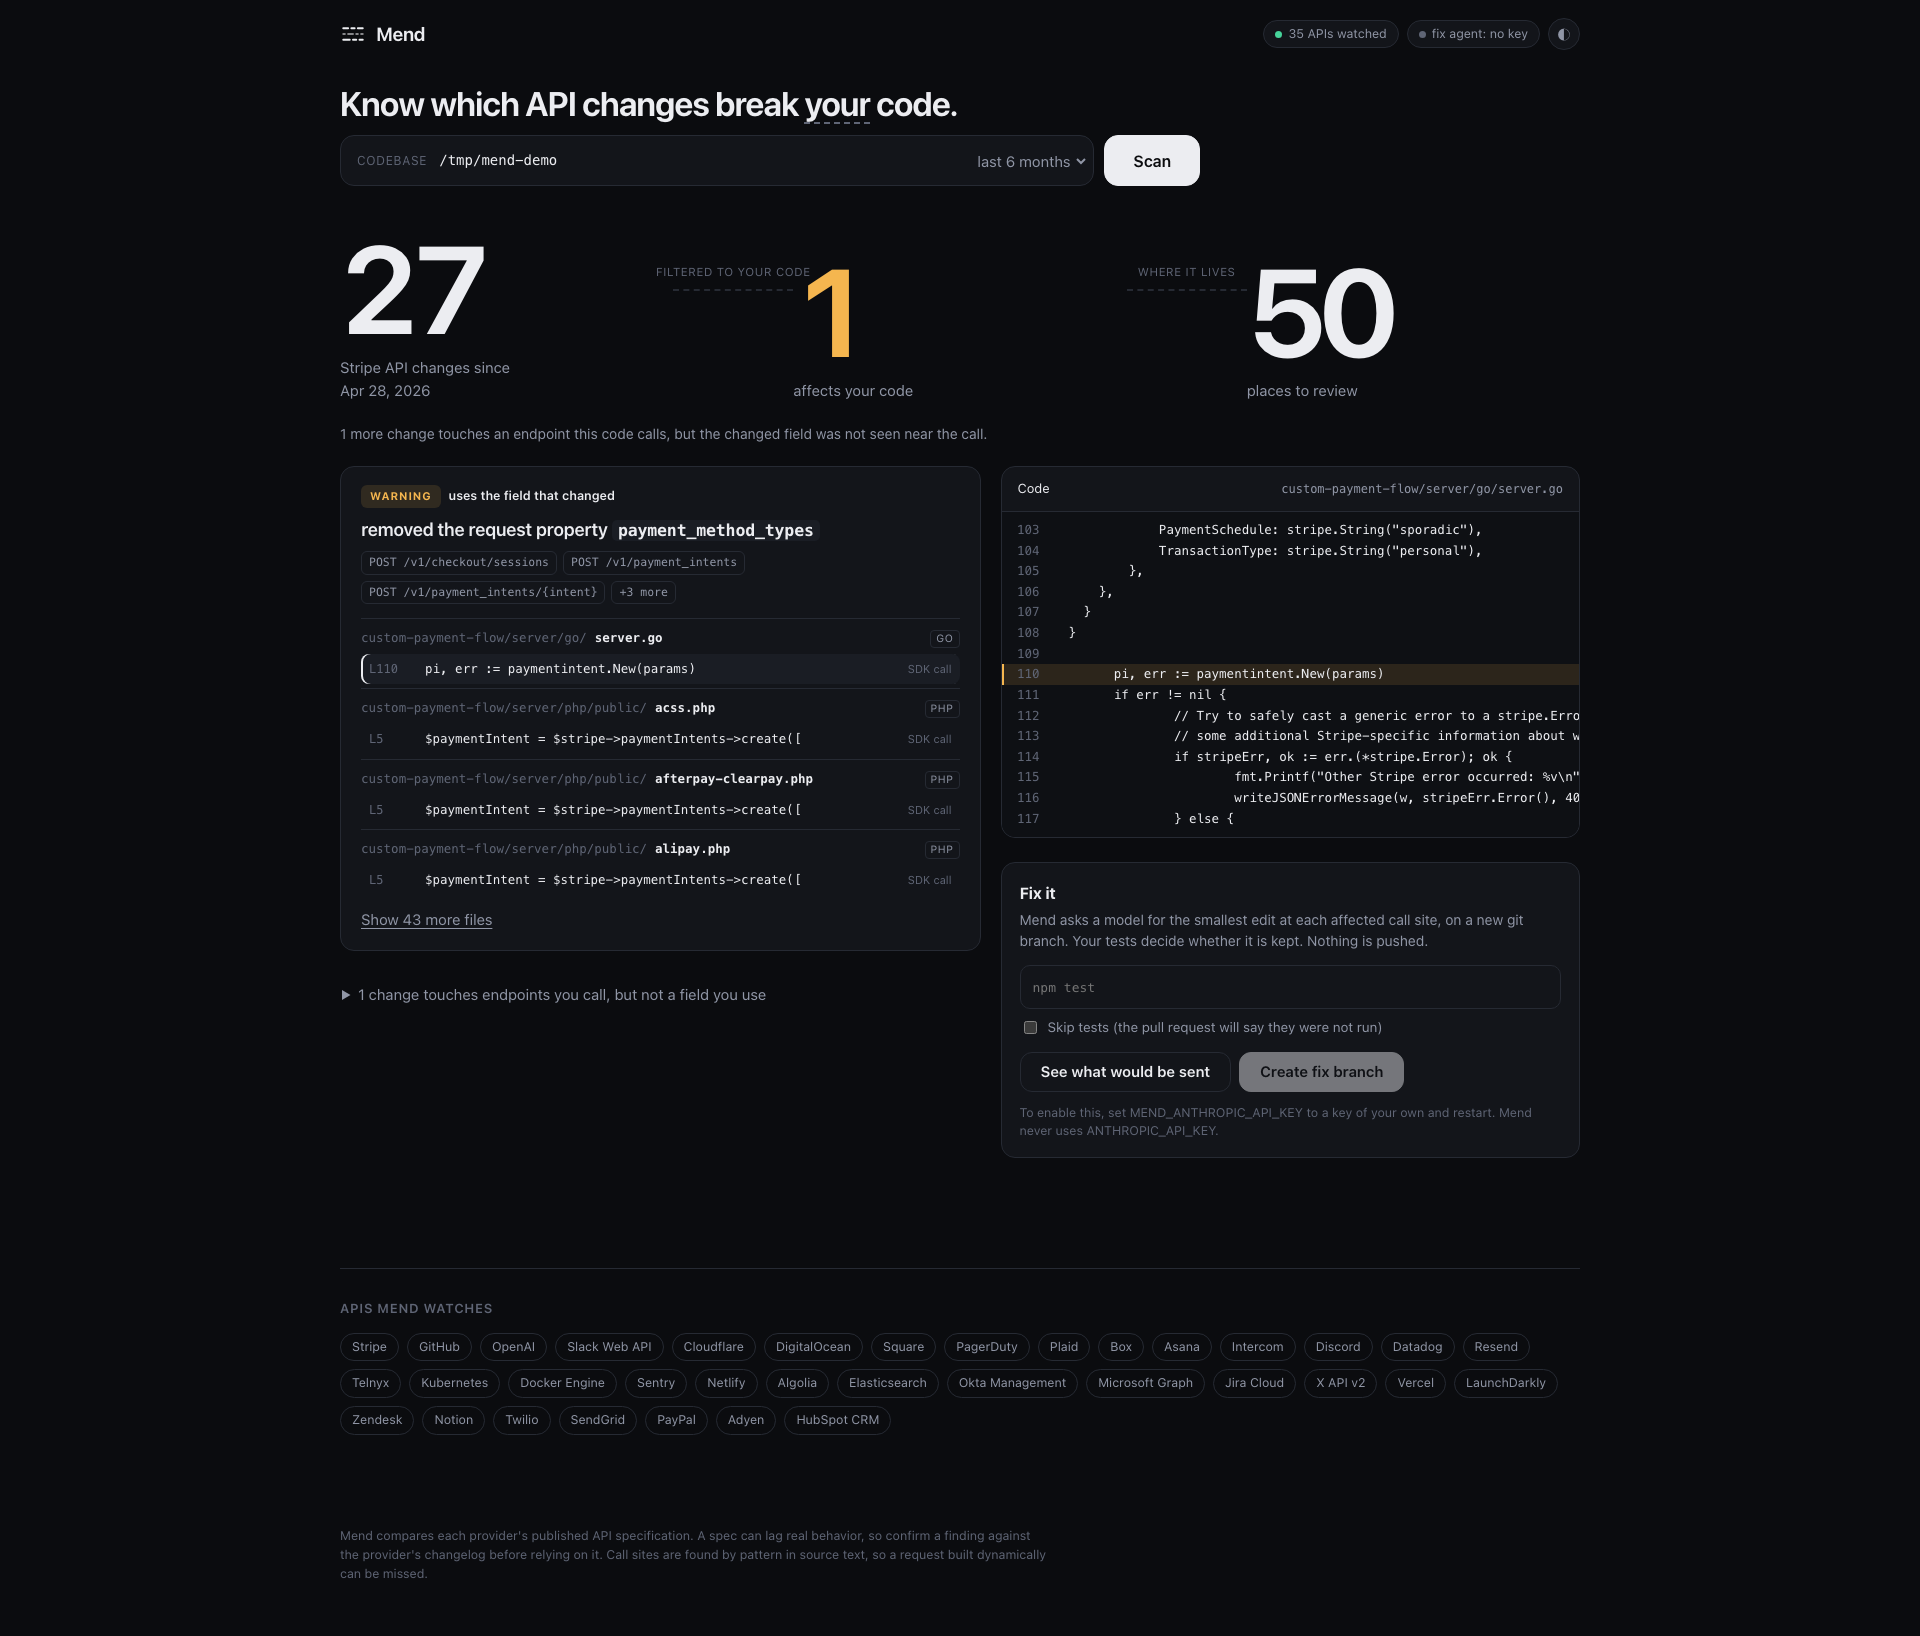
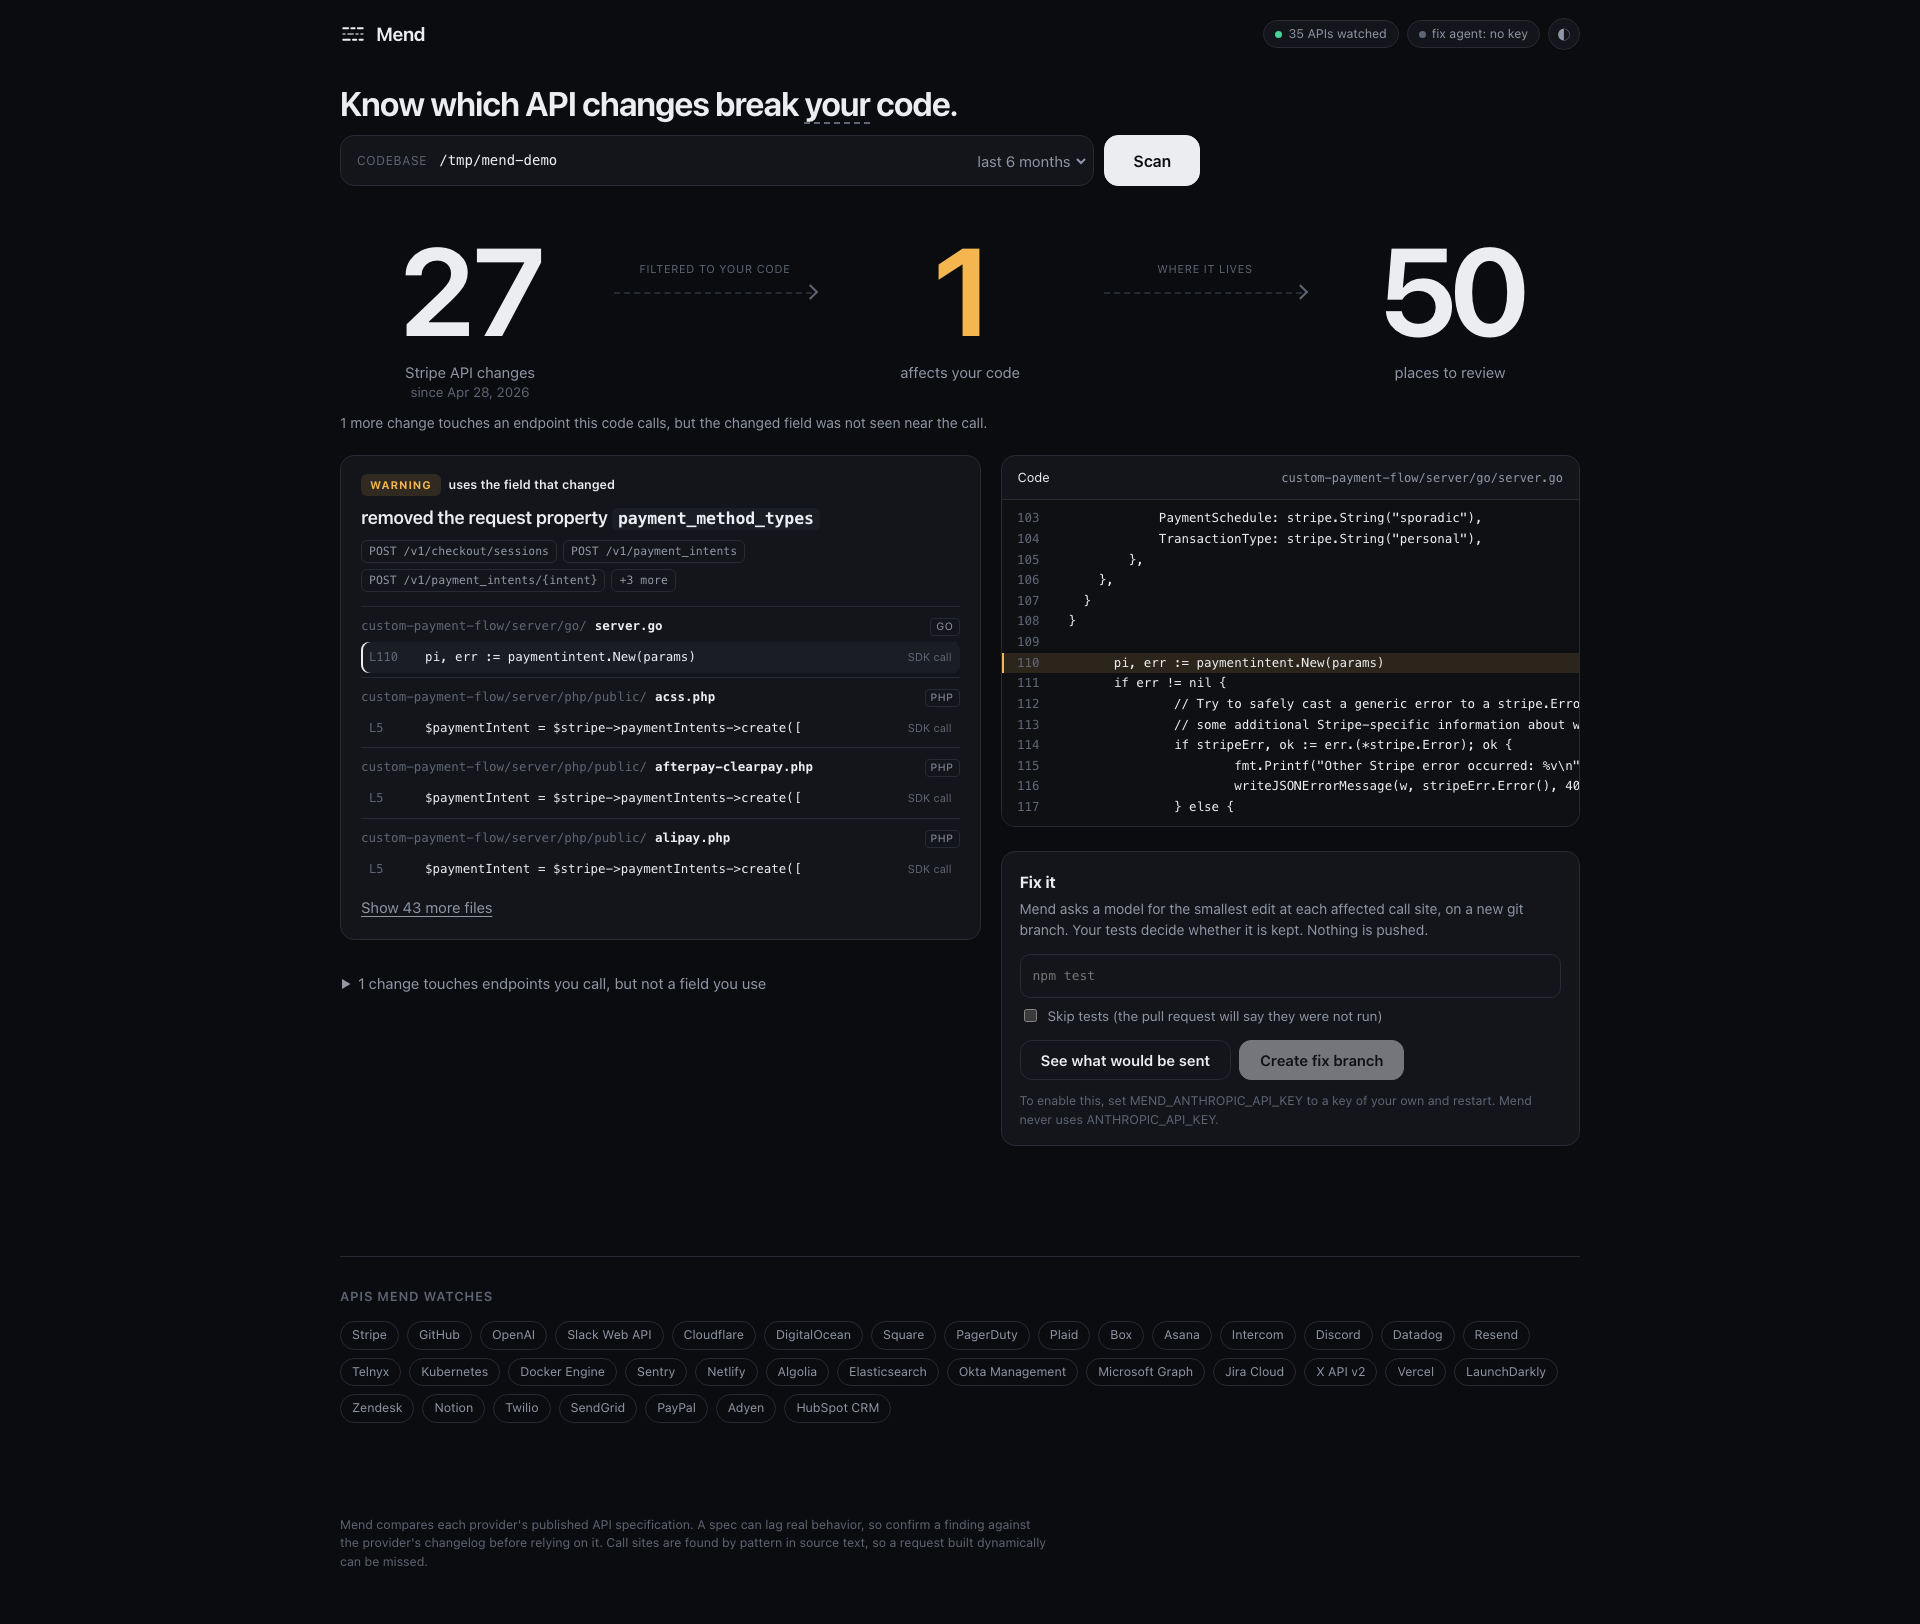
UI: align the funnel on one grid
The three numbers sat at different heights because each column was bottom
aligned on its own and one caption wrapped to two lines. The '1' looked
indented because its glyph has a large left bearing and everything was left
aligned. The connectors floated and one label collided with a number.

The funnel is now two grid rows: numbers share a baseline on row 1, captions
hang from row 2, everything is centred, and the connectors sit in their own
columns with an arrowhead at mid-digit height.

diff --git a/internal/ui/web/index.html b/internal/ui/web/index.html
@@ -134,17 +134,22 @@ h1 em { font-style: normal; text-decoration: underline dashed; text-decoration-c
 .tab[aria-selected="true"] { color: var(--btn-fg); background: var(--btn-bg); border-color: var(--btn-bg); }
 .tab .n { font-size: 12px; opacity: .8; font-variant-numeric: tabular-nums; }
 
-/* ---- the funnel ---- */
-.funnel { display: grid; grid-template-columns: 1fr 120px 1fr 120px 1fr; align-items: end; padding: 26px 0 30px; }
-.stage .num { font-size: clamp(60px, 9.4vw, 124px); line-height: .92; font-weight: 650; letter-spacing: -.055em; font-variant-numeric: tabular-nums; }
-.stage .lbl { margin-top: 12px; color: var(--muted); font-size: 15px; max-width: 24ch; }
-.stage.mid .num { color: var(--warning); }
-.stage.mid.clear .num { color: var(--ok); }
-.stage.mid.breaking .num { color: var(--breaking); }
-.stitch { align-self: center; position: relative; height: 2px; margin-bottom: 52px; }
-.stitch::before { content: ""; position: absolute; inset: 0; border-top: 2px dashed var(--line); }
-.stitch span { position: absolute; left: 50%; top: -26px; transform: translateX(-50%); white-space: nowrap; font-size: 11.5px; color: var(--faint); letter-spacing: .05em; text-transform: uppercase; }
-.funnel-note { color: var(--muted); font-size: 14px; margin-top: -8px; max-width: 80ch; }
+/* ---- the funnel ----
+   Two rows on one grid: the numbers share a baseline on row 1, the captions
+   hang from row 2, and the connectors live in their own columns so they can
+   be centred on the digits and never touch a number. */
+.funnel { display: grid; grid-template-columns: minmax(0, 1fr) minmax(150px, 230px) minmax(0, 1fr) minmax(150px, 230px) minmax(0, 1fr); align-items: end; padding: 30px 0 6px; text-align: center; }
+.funnel .num { font-size: clamp(60px, 9vw, 124px); line-height: .9; font-weight: 650; letter-spacing: -.055em; font-variant-numeric: tabular-nums; }
+.funnel .num.mid { color: var(--warning); }
+.funnel .num.mid.clear { color: var(--ok); }
+.funnel .num.mid.breaking { color: var(--breaking); }
+.funnel .lbl { align-self: start; margin: 16px auto 0; color: var(--muted); font-size: 15px; line-height: 1.4; max-width: 26ch; }
+.funnel .lbl b { display: block; font-weight: 400; color: var(--faint); font-size: 13.5px; }
+.stitch { align-self: stretch; position: relative; margin: 0 14px; }
+.stitch::before { content: ""; position: absolute; left: 0; right: 4px; top: 52%; border-top: 2px dashed var(--line); }
+.stitch::after { content: ""; position: absolute; right: 0; top: 52%; width: 9px; height: 9px; border-top: 2px solid var(--faint); border-right: 2px solid var(--faint); transform: translateY(-50%) rotate(45deg); }
+.stitch span { position: absolute; left: 0; right: 0; top: calc(52% - 30px); text-align: center; font-size: 11px; line-height: 1.25; color: var(--faint); letter-spacing: .06em; text-transform: uppercase; }
+.funnel-note { color: var(--muted); font-size: 14px; margin-top: 4px; max-width: 80ch; }
 
 /* ---- workspace ---- */
 .work { display: grid; grid-template-columns: minmax(0, 1.05fr) minmax(0, .95fr); gap: 20px; align-items: start; padding-bottom: 80px; }
@@ -232,11 +237,12 @@ mark { background: var(--mark); color: inherit; border-radius: 3px; padding: 0 1
 @media (max-width: 1000px) {
   .work { grid-template-columns: 1fr; }
   .side { position: static; }
-  .funnel { grid-template-columns: 1fr 1fr 1fr; gap: 14px; }
-  .stitch { display: none; }
+  .funnel { grid-template-columns: repeat(3, minmax(0, 1fr)); gap: 0 14px; }
+  .funnel .stitch, .funnel .gap { display: none; }
 }
 @media (max-width: 560px) {
-  .funnel { grid-template-columns: 1fr; }
+  .funnel { grid-template-columns: 1fr; text-align: left; gap: 0; }
+  .funnel .lbl { margin: 6px 0 18px; }
   .field label { display: none; }
 }
 @media (prefers-reduced-motion: reduce) { .spin { animation: none; } }
@@ -464,14 +470,22 @@ function renderFunnel(d) {
   const f = clear($('#funnel'));
   const worst = d.findings.filter(x => x.relevance !== 'calls-endpoint').some(x => x.severity === 'breaking' || x.relevance === 'calls-removed-endpoint');
   const cls = d.affecting === 0 ? 'clear' : worst ? 'breaking' : '';
-  const n1 = h('div', { class: 'num', text: '0' }), n2 = h('div', { class: 'num', text: '0' }), n3 = h('div', { class: 'num', text: '0' });
-  const when = d.since ? h('span', { style: 'white-space:nowrap', text: fmtDate(d.since) }) : null;
+  const n1 = h('span', { text: '0' }), n2 = h('span', { text: '0' }), n3 = h('span', { text: '0' });
+  const lbl1 = h('div', { class: 'lbl' }, `${d.name} API ${plural(d.total, 'change', 'changes')}`,
+    d.since ? h('b', { text: 'since ' + fmtDate(d.since) }) : h('b', { text: 'in the period' }));
   f.append(
-    h('div', { class: 'stage' }, n1, h('div', { class: 'lbl' }, `${d.name} API ${plural(d.total, 'change', 'changes')} `, when ? 'since ' : 'in the period', when)),
-    h('div', { class: 'stitch' }, h('span', { text: 'filtered to your code' })),
-    h('div', { class: 'stage mid ' + cls }, n2, h('div', { class: 'lbl', text: d.affecting === 0 ? 'affect your code' : plural(d.affecting, 'affects your code', 'affect your code') })),
-    h('div', { class: 'stitch' }, h('span', { text: 'where it lives' })),
-    h('div', { class: 'stage' }, n3, h('div', { class: 'lbl', text: plural(d.call_sites, 'place to review', 'places to review') })));
+    // row 1: numbers and the connectors between them
+    h('div', { class: 'num' }, n1),
+    h('div', { class: 'stitch', 'aria-hidden': 'true' }, h('span', { text: 'filtered to your code' })),
+    h('div', { class: 'num mid ' + cls }, n2),
+    h('div', { class: 'stitch', 'aria-hidden': 'true' }, h('span', { text: 'where it lives' })),
+    h('div', { class: 'num' }, n3),
+    // row 2: captions, each under its own number
+    lbl1,
+    h('div', { class: 'gap' }),
+    h('div', { class: 'lbl', text: plural(d.affecting, 'affects your code', 'affect your code') }),
+    h('div', { class: 'gap' }),
+    h('div', { class: 'lbl', text: plural(d.call_sites, 'place to review', 'places to review') }));
   countUp(n1, d.total); countUp(n2, d.affecting); countUp(n3, d.call_sites);
   const notes = [];
   if (d.compared === 0) notes.push('Nothing could be compared for this API, so this says nothing about whether it changed.');
